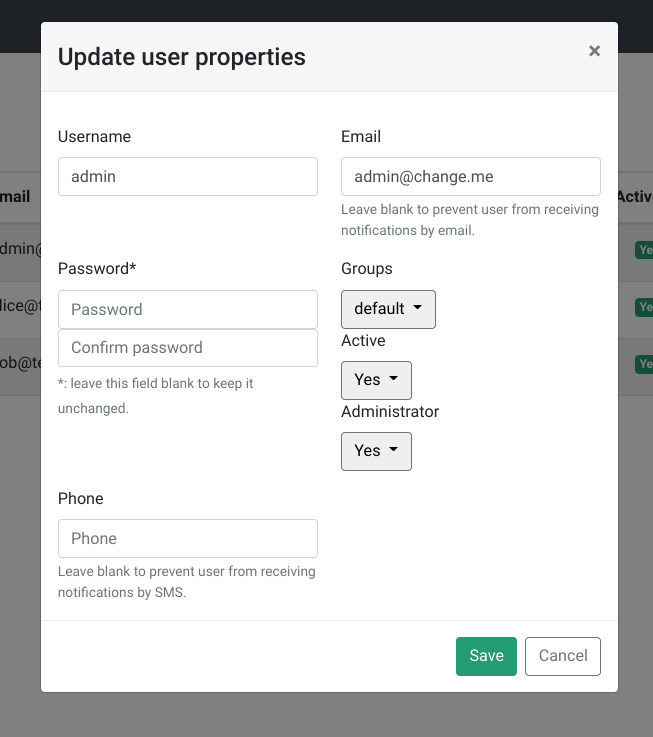
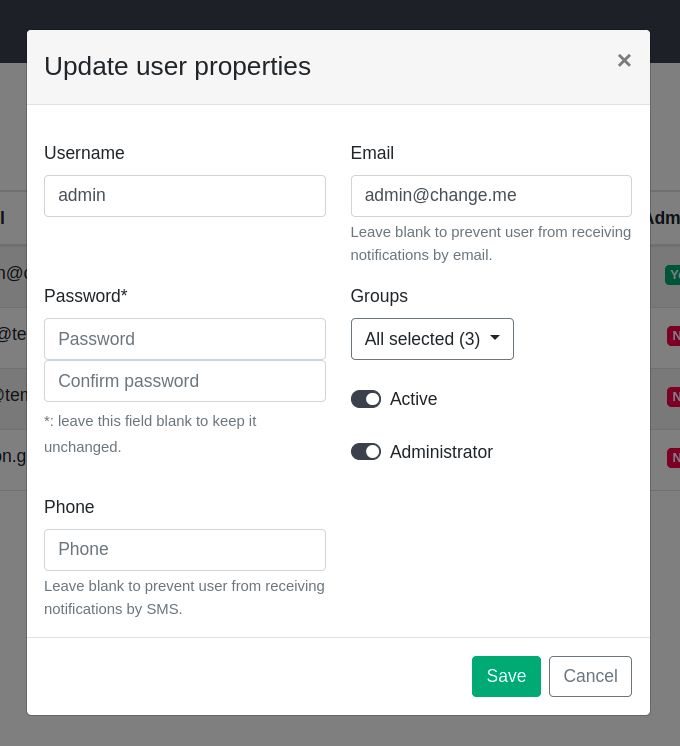
Replace select option by a switch for active and admin items in update user form
Edit screenshot in doc.

Changed region(s): [[0.0, 0.0312, 1.0, 0.9674], [0.4594, 0.2497, 0.49, 0.2809]]

diff --git a/ui/temboardui/static/src/public/js/temboard.settings.user.js b/ui/temboardui/static/src/public/js/temboard.settings.user.js
@@ -62,26 +62,27 @@ function load_update_user_form(modal_id, username)
         descriptions[group['name']] = group['description'];
       }
       body_html += '      </select><br />';
-      body_html += '      <label for="selectActive" class="control-label">Active</label><br />';
-      body_html += '      <select id="selectActive">';
-      body_html += '        <option value="No">No</options>';
+      body_html += '        <div class="custom-control custom-switch"><br />  ';
       sel_active = '';
-      if (data['is_active'])
-      {
-        sel_active = 'selected';
+      val_active = 'no'
+      if (data['is_active']) {
+        sel_active = 'checked';
+        val_active = 'yes'
       }
-      body_html += '        <option value="yes" '+sel_active+'>Yes</options>';
-      body_html += '      </select><br />';
-      body_html += '      <label for="selectAdmin" class="control-label">Administrator</label><br />';
-      body_html += '      <select id="selectAdmin">';
-      body_html += '        <option value="No">No</options>';
+      body_html += '          <input type="checkbox" class="custom-control-input" id="switchActive" value="'+val_active+'" '+sel_active+'>';
+      body_html += '          <label class="custom-control-label" for="switchActive">Active</label><br /> ';
+      body_html += '         </div> ';
+      body_html += '        <div class="custom-control custom-switch"><br />  ';
       sel_admin = '';
+      val_admin = 'no';
       if (data['is_admin'])
       {
-        sel_admin = 'selected';
+        sel_admin = 'checked';
+        val_admin = 'yes';
       }
-      body_html += '        <option value="yes" '+sel_admin+'>Yes</options>';
-      body_html += '      </select>';
+      body_html += '          <input type="checkbox" class="custom-control-input" id="switchAdmin" value="'+val_admin+'" '+sel_admin+'>';
+      body_html += '          <label class="custom-control-label" for="switchAdmin">Administrator</label><br /> ';
+      body_html += '         </div> ';
       body_html += '    </div>';
       body_html += '  </div>';
       body_html += '  <div class="row">';
@@ -104,9 +105,21 @@ function load_update_user_form(modal_id, username)
 
       // Activate multiselect plugin for group selecting.
       $('#selectGroups').multiselect(multiselectOptions);
-      // Use multiselect style for Active & Admin selects.
-      $('#selectActive').multiselect(multiselectOptions);
-      $('#selectAdmin').multiselect(multiselectOptions);
+      // Update value for Active and Admin input
+      $('#switchActive').on('change', function() {
+        if ($(this).is(':checked')){
+          $(this).attr('value', 'yes');
+        } else{
+          $(this).attr('value', 'no');
+        }
+      });
+      $('#switchAdmin').on('change', function() {
+        if ($(this).is(':checked')){
+          $(this).attr('value', 'yes');
+        } else{
+          $(this).attr('value', 'no');
+        }
+      });
       $('#formUpdateUser').submit(function( event ) {
           event.preventDefault();
         send_update_user_form(modal_id);
@@ -136,8 +149,8 @@ function send_update_user_form(modal_id)
       'password': $('#inputPassword').val(),
       'password2': $('#inputPassword2').val(),
       'groups': $('#selectGroups').val(),
-      'is_active': $('#selectActive').val(),
-      'is_admin': $('#selectAdmin').val()
+      'is_active': $('#switchActive').val(),
+      'is_admin': $('#switchAdmin').val()
     }),
     async: true,
     contentType: "application/json",
